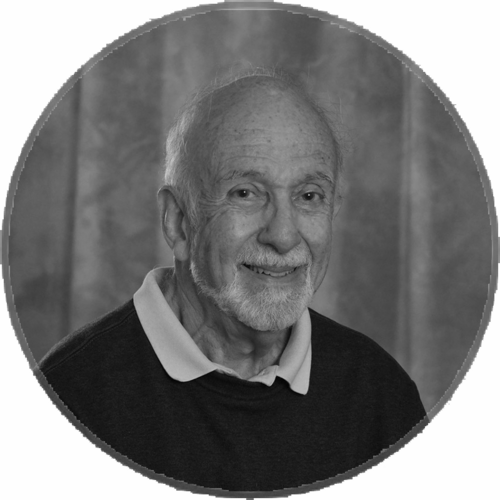
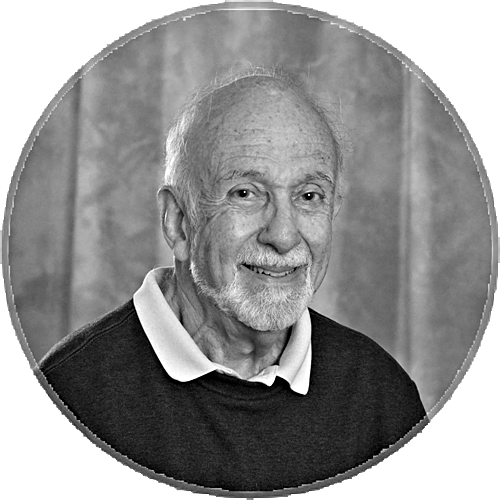
add images, update copy, lighten bob's photo

diff --git a/index.html b/index.html
@@ -129,13 +129,48 @@
       </div>
     </section>
 
+    <!-- ===== WHERE IT'S USED ===== -->
+    <section class="section section--tint" id="applications">
+      <div class="container">
+        <div class="section-head">
+          <span class="eyebrow">Where it's used</span>
+          <h2>One test, every point in the food supply chain</h2>
+          <p class="lead">The same handheld device and single-use cartridge work from the field to the processing line to the distribution center, wherever a result is needed before product moves.</p>
+        </div>
+
+        <div class="usecases">
+          <figure class="usecase">
+            <img src="assets/use-produce.jpg" alt="Rows of leafy greens growing in an open field" width="720" height="480" loading="lazy" />
+            <figcaption>
+              <h3>Produce &amp; fresh crops</h3>
+              <p>Screen leafy greens and fresh produce at harvest and packing, where E.&nbsp;coli and Listeria risk is highest.</p>
+            </figcaption>
+          </figure>
+          <figure class="usecase">
+            <img src="assets/use-dairy.jpg" alt="Dairy cattle in a pasture" width="720" height="480" loading="lazy" />
+            <figcaption>
+              <h3>Dairy &amp; beef</h3>
+              <p>Test raw milk and beef processing at the source instead of holding product for days of confirmatory culture.</p>
+            </figcaption>
+          </figure>
+          <figure class="usecase">
+            <img src="assets/use-poultry.jpg" alt="Laying hens at a feed trough beside a row of eggs" width="720" height="480" loading="lazy" />
+            <figcaption>
+              <h3>Poultry &amp; eggs</h3>
+              <p>Catch Salmonella and Campylobacter — the two pathogens most associated with poultry — on the line.</p>
+            </figcaption>
+          </figure>
+        </div>
+      </div>
+    </section>
+
     <!-- ===== DATA-PLATFORM VISION ===== -->
     <section class="section section--dark" id="platform">
       <div class="container">
         <div class="section-head">
           <span class="eyebrow">Beyond the device</span>
           <h2>Every test builds a real-time food-safety data layer</h2>
-          <p class="lead" style="color:#aeb8b2">Each test generates structured, timestamped, geotagged data — creating a pathogen dataset that doesn't exist today and shifting food safety from reactive to predictive. The long-term moat isn't the device; it's the data.</p>
+          <p class="lead" style="color:#aeb8b2">Each test generates structured, timestamped, geotagged data — creating a pathogen dataset that doesn't exist today and shifting food safety from reactive to predictive. The long-term moat is the data rather than the device.</p>
         </div>
         <div class="grid-3">
           <div class="card">
@@ -184,7 +219,7 @@
             <img src="assets/logo-mark.png" alt="" />
             <div class="footer__wordmark">RapidBio Systems, Inc.<span>Fast Pathogen Detection Made Easy™</span></div>
           </div>
-          <p class="footer__tag">Transforming food safety testing — one 10-minute test at a time.</p>
+          <p class="footer__tag">Transforming food safety testing, one 10-minute test at a time.</p>
         </div>
         <div class="footer__col">
           <h4>Explore</h4>

diff --git a/css/styles.css b/css/styles.css
@@ -238,9 +238,36 @@ strong { color: var(--ink); font-weight: 650; }
   background: var(--gold); color: var(--ink); font-weight: 700; border-radius: var(--pill); font-size: 1rem;
 }
 
+/* ---------- use-case photo cards ---------- */
+.usecases { display: grid; grid-template-columns: repeat(3, 1fr); gap: 22px; }
+.usecase {
+  margin: 0; background: #fff; border: 1px solid var(--line); border-radius: var(--r);
+  overflow: hidden; box-shadow: var(--shadow-sm); transition: transform .2s var(--ease), box-shadow .2s;
+}
+.usecase:hover { transform: translateY(-3px); box-shadow: var(--shadow); }
+.usecase img { width: 100%; aspect-ratio: 3 / 2; object-fit: cover; }
+.usecase figcaption { padding: 22px 24px 26px; }
+.usecase h3 { font-size: 1.08rem; margin-bottom: 6px; }
+.usecase p { margin: 0; font-size: .95rem; color: var(--muted); }
+
+/* ---------- photo panel (product / cartridge detail) ---------- */
+.photo-panel {
+  background: #fff; border: 1px solid var(--line); border-radius: var(--r-lg);
+  padding: 14px; box-shadow: var(--shadow); overflow: hidden;
+}
+.photo-panel img { width: 100%; border-radius: var(--r-sm); }
+.photo-panel--center { max-width: 720px; margin: 0 auto 36px; }
+
 /* ---------- comparison ---------- */
 .compare { display: grid; gap: 12px; margin-top: 8px; }
-.compare__row { display: grid; grid-template-columns: 150px 1fr; gap: 18px; align-items: center; }
+.compare__row { display: grid; grid-template-columns: 58px 150px 1fr; gap: 16px; align-items: center; }
+.compare__thumb {
+  width: 58px; height: 58px; border-radius: var(--r-sm); border: 1px solid var(--line);
+  background: #fff; overflow: hidden;
+}
+.compare__thumb img { width: 100%; height: 100%; object-fit: contain; }
+.compare__row--us .compare__thumb { border-color: var(--mint-2); background: var(--mint); }
+.compare__thumb--icon { background: var(--mint); border-color: var(--mint-2); color: var(--green-700); display: grid; place-items: center; }
 .compare__label { font-weight: 650; color: var(--ink); font-size: .98rem; }
 .compare__label small { display: block; font-weight: 500; color: var(--muted); font-size: .82rem; }
 .compare__track { background: var(--paper-2); border: 1px solid var(--line); border-radius: var(--pill); height: 40px; display: flex; align-items: center; overflow: hidden; }
@@ -340,6 +367,7 @@ strong { color: var(--ink); font-weight: 650; }
   .split--media-right .split__media { order: -1; }
   .stats { grid-template-columns: 1fr; }
   .grid-3 { grid-template-columns: 1fr 1fr; }
+  .usecases { grid-template-columns: 1fr 1fr; }
   .steps { grid-template-columns: 1fr 1fr; }
   .step:not(:last-child)::after { display: none; }
   .team-grid { grid-template-columns: 1fr; max-width: 360px; margin-inline: auto; }
@@ -365,8 +393,10 @@ strong { color: var(--ink); font-weight: 650; }
 @media (max-width: 560px) {
   body { font-size: 16px; }
   .grid-3, .grid-2 { grid-template-columns: 1fr; }
+  .usecases { grid-template-columns: 1fr; }
   .steps { grid-template-columns: 1fr; }
-  .compare__row { grid-template-columns: 110px 1fr; }
+  .compare__row { grid-template-columns: 44px 104px 1fr; gap: 10px; }
+  .compare__thumb { width: 44px; height: 44px; }
   .footer__top { grid-template-columns: 1fr; }
   .hero__actions .btn { flex: 1 1 auto; justify-content: center; }
 }

diff --git a/technology.html b/technology.html
@@ -93,7 +93,11 @@
         <div class="section-head" style="max-width:760px">
           <span class="eyebrow">The science</span>
           <h2 class="mt-0">How Mie-scattering detection works</h2>
-          <p class="lead">Antibody-coated microspheres bind to target bacteria in a micro-fluidic cartridge. A laser passes through the sample, and the pattern of scattered light reveals whether pathogens are present — read directly, with no amplification.</p>
+          <p class="lead">Antibody-coated microspheres bind to target bacteria in a micro-fluidic cartridge split into control and test channels. A laser passes through the sample, and the pattern of scattered light reveals whether pathogens are present — read directly, with no amplification.</p>
+        </div>
+
+        <div class="photo-panel photo-panel--center">
+          <img src="assets/cartridge-detail.jpg" alt="Close-up of the RapidBio micro-fluidic test cartridge, with the sample port at the center feeding dyed fluid into the control-side and test-side channels" width="1200" height="636" loading="lazy" />
         </div>
 
         <div class="diagram-panel">
@@ -105,12 +109,12 @@
           <div class="card">
             <div class="icon-badge" aria-hidden="true"><svg width="24" height="24" viewBox="0 0 24 24" fill="none" stroke="currentColor" stroke-width="2" stroke-linecap="round" stroke-linejoin="round"><path d="M13 2 3 14h9l-1 8 10-12h-9l1-8z"/></svg></div>
             <h3>No sample amplification</h3>
-            <p>Results are read directly from the sample — no time-consuming amplification step.</p>
+            <p>Results are read directly from the sample without a time-consuming amplification step.</p>
           </div>
           <div class="card">
             <div class="icon-badge" aria-hidden="true"><svg width="24" height="24" viewBox="0 0 24 24" fill="none" stroke="currentColor" stroke-width="2" stroke-linecap="round" stroke-linejoin="round"><path d="M9 3v6l-5 9a2 2 0 0 0 2 3h12a2 2 0 0 0 2-3l-5-9V3"/><path d="M8 3h8"/></svg></div>
             <h3>No dedicated lab</h3>
-            <p>Runs at the point of need in the field — no benchtop instruments required.</p>
+            <p>Runs at the point of need in the field, no benchtop instruments required.</p>
           </div>
           <div class="card">
             <div class="icon-badge" aria-hidden="true"><svg width="24" height="24" viewBox="0 0 24 24" fill="none" stroke="currentColor" stroke-width="2" stroke-linecap="round" stroke-linejoin="round"><circle cx="12" cy="8" r="4"/><path d="M4 21c0-4 3.6-6 8-6s8 2 8 6"/></svg></div>
@@ -127,27 +131,34 @@
         <div class="section-head">
           <span class="eyebrow">Competitive edge</span>
           <h2>Faster and lower cost — without the amplification bottleneck</h2>
-          <p class="lead">Every competing method requires a sample amplification step that adds hours or days. RapidBio doesn't — delivering a screening result in about ten minutes.</p>
+          <p class="lead">Every competing method requires a sample amplification step that adds hours or days. RapidBio doesn't, delivering a screening result in about ten minutes.</p>
         </div>
 
         <div class="compare">
-          <div class="compare__row">
+          <div class="compare__row compare__row--us">
+            <div class="compare__thumb"><img src="assets/m-rapidbio.jpg" alt="" width="160" height="160" loading="lazy" /></div>
             <div class="compare__label">RapidBio<small>~10 minutes</small></div>
             <div class="compare__track"><span class="compare__bar compare__bar--us" style="width:8%"></span><span class="compare__cap">~10 min</span></div>
           </div>
           <div class="compare__row">
+            <div class="compare__thumb"><img src="assets/m-lfa.jpg" alt="Lateral-flow antibody test strip" width="160" height="160" loading="lazy" /></div>
             <div class="compare__label">Lateral flow<small>Hours + amplification</small></div>
             <div class="compare__track"><span class="compare__bar compare__bar--slow" style="width:40%"></span></div>
           </div>
           <div class="compare__row">
+            <div class="compare__thumb compare__thumb--icon" aria-hidden="true">
+              <svg width="30" height="30" viewBox="0 0 24 24" fill="none" stroke="currentColor" stroke-width="1.6"><rect x="2.5" y="4.5" width="19" height="15" rx="2"/><circle cx="7" cy="9" r="1.5"/><circle cx="12" cy="9" r="1.5"/><circle cx="17" cy="9" r="1.5"/><circle cx="7" cy="15" r="1.5"/><circle cx="12" cy="15" r="1.5"/><circle cx="17" cy="15" r="1.5"/></svg>
+            </div>
             <div class="compare__label">ELISA<small>Hours + amplification</small></div>
             <div class="compare__track"><span class="compare__bar compare__bar--slow" style="width:52%"></span></div>
           </div>
           <div class="compare__row">
+            <div class="compare__thumb"><img src="assets/m-pcr.jpg" alt="Technician operating a benchtop PCR analyzer in a lab" width="160" height="160" loading="lazy" /></div>
             <div class="compare__label">PCR / rtPCR<small>Hours + amplification</small></div>
             <div class="compare__track"><span class="compare__bar compare__bar--slow" style="width:70%"></span></div>
           </div>
           <div class="compare__row">
+            <div class="compare__thumb"><img src="assets/m-agar.jpg" alt="Bacterial colonies growing on an agar culture plate" width="160" height="160" loading="lazy" /></div>
             <div class="compare__label">Agar plate<small>Days + culture</small></div>
             <div class="compare__track"><span class="compare__bar compare__bar--slower" style="width:92%"></span></div>
           </div>
@@ -155,7 +166,7 @@
         <p class="compare__axis">Longer time to result →</p>
 
         <div class="compare__note">
-          <p style="margin:0"><b>The key difference:</b> established methods from BioMérieux, Thermo&nbsp;Fisher, Eurofins and Neogen all depend on an amplification or culture step. RapidBio removes it entirely — the basis for both its speed and its lower cost per test.</p>
+          <p style="margin:0"><b>The key difference:</b> established methods from BioMérieux, Thermo&nbsp;Fisher, Eurofins and Neogen all depend on an amplification or culture step. RapidBio removes it entirely, the basis for both its speed and its lower cost per test.</p>
         </div>
       </div>
     </section>
@@ -181,7 +192,7 @@
             <img src="assets/logo-mark.png" alt="" />
             <div class="footer__wordmark">RapidBio Systems, Inc.<span>Fast Pathogen Detection Made Easy™</span></div>
           </div>
-          <p class="footer__tag">Transforming food safety testing — one 10-minute test at a time.</p>
+          <p class="footer__tag">Transforming food safety testing, one 10-minute test at a time.</p>
         </div>
         <div class="footer__col">
           <h4>Explore</h4>

diff --git a/contact.html b/contact.html
@@ -109,7 +109,7 @@
             <img src="assets/logo-mark.png" alt="" />
             <div class="footer__wordmark">RapidBio Systems, Inc.<span>Fast Pathogen Detection Made Easy™</span></div>
           </div>
-          <p class="footer__tag">Transforming food safety testing — one 10-minute test at a time.</p>
+          <p class="footer__tag">Transforming food safety testing, one 10-minute test at a time.</p>
         </div>
         <div class="footer__col">
           <h4>Explore</h4>

diff --git a/team.html b/team.html
@@ -131,7 +131,7 @@
             <img src="assets/logo-mark.png" alt="" />
             <div class="footer__wordmark">RapidBio Systems, Inc.<span>Fast Pathogen Detection Made Easy™</span></div>
           </div>
-          <p class="footer__tag">Transforming food safety testing — one 10-minute test at a time.</p>
+          <p class="footer__tag">Transforming food safety testing, one 10-minute test at a time.</p>
         </div>
         <div class="footer__col">
           <h4>Explore</h4>